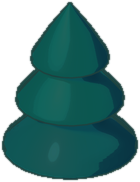
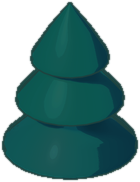
树冠亮部压到参考图的比例：之前三轮扫不动是参考裁剪里混了草地
GROVE_CAP 的拐点 0.40 -> 0.390，GROVE_FLAT 的暗边 d0 0.055 -> 0.140。
亮档 oak 21.2% -> 13.9%、pine 16.0% -> 8.1%（参考图 11.9%），
暗部 oak 24.1% -> 28.5%（参考图 30.7%）。

D120/D121 的参考窗口放大 4 倍看过，里面有草和树缝，所以那两轮的
gamma 扫描"饱和"是靶子画错了。新靶 IMG_3728 778..882 x 1360..1490
逐像素确认过整块都是同一棵树冠。

只有 oak 和 pine 重新上色，图集仍是 359 帧 4096x3132。

Changed region(s): [[0.6, 0.6868, 0.8571, 0.8516], [0.4286, 0.4121, 0.6286, 0.467], [0.3143, 0.6593, 0.4286, 0.7143]]

diff --git a/tools/art3d/shade.py b/tools/art3d/shade.py
@@ -105,7 +105,23 @@ LINE = {
 # NOT applied to the rest of the toned props: cactus sits at 0.580 of p88 on sand at 0.84 and
 # snowpine at 0.502 on snow at 0.90-0.95, so this knee would cut their bodies by a tenth and a
 # seventh, not just their tails. The litter is out too -- the reference's forest carries none.
-GROVE_CAP = {'t': 0.40, 'c': 0.25}
+# D129: AND THE LIT SHARE IS THE KNEE, NOT THE CEILING. The reference numbers D120/D121 were swept
+# against came from a window that is NOT all crown -- read back at 4x it holds grass and the gap
+# between two trees, which is why those sweeps "saturated" without closing anything. Measured again
+# on a window verified by eye to be one crown and nothing else (IMG_3728, 778..882 x 1360..1490),
+# the reference's crown splits like this, against ours before this change:
+#               <0.28   0.28-0.32   0.32-0.36   0.36-0.40   >0.40
+#   reference   30.7%     11.8%       44.5%       11.9%      1.2%
+#   oak         24.1%      4.4%       49.3%       21.2%      1.0%
+#   pine        19.3%      4.8%       59.7%       16.0%      0.2%
+# So the body's level is right and has been since D93; what is wrong is HOW MUCH of the crown is
+# lit -- ours is nearly twice the reference's -- and that is this knee, not GROVE_SPLIT's gamma.
+# Swept (lit share, oak / pine): 0.40 -> 21.2/16.0, 0.395 -> 21.5/16.1, 0.390 -> 13.9/8.1,
+# 0.385 -> 9.0/3.3, 0.38 -> 6.9/1.5, 0.36 -> 1.0/0.3. 0.390 averages 11.0 against its 11.9.
+# GROVE_SPLIT's 'hi' was swept too and is NOT the lever: it is the ceiling every lit pixel lands
+# on, so raising it past 0.405 wipes the lit tier out entirely (oak 2.8%) instead of shrinking it,
+# and GROVE_BAND's fourth level was dropped and put back -- it changes the shares by under 1 point.
+GROVE_CAP = {'t': 0.390, 'c': 0.25}
 # AND THEN IT IS PAINTED IN STEPS, NOT IN A GRADIENT (D117). A render shades a sphere smoothly and
 # the reference paints a canopy in flat tiers, and that -- more than hue, value or outline -- is why
 # a grove of ours reads as balloons and one of theirs as foliage. Counted rather than eyeballed, by
@@ -179,7 +195,13 @@ GROVE_COOL = {'rgb': (8, 51, 66), 'v0': 0.330, 'v1': 0.255, 'k': 0.90}
 # the inside of it stays flat. So a dark pixel is lifted toward the middle tier by how deep inside
 # the silhouette it sits -- nothing within d0 of the edge is touched (that is the reference's own
 # dark rim, and the band cool() acts on), everything past d1 is lifted in full.
-GROVE_FLAT = {'v': 0.345, 'd0': 0.055, 'd1': 0.150, 'k': 0.80}
+# D129 widened the rim: d0 is how far in the shade is left alone, as a fraction of the piece's
+# height, and at 0.055 it left a band about 2.4 logical px thick on the board where the reference's
+# is about twice that. Swept against the share of the body below 0.30 (reference 36.6%): d0 0.055
+# -> 26.5% (oak), 0.075 -> 28.1, 0.095 -> 29.3, 0.115 -> 30.2, 0.140 -> 31.0. d1 keeps the same
+# 0.095 ramp above it. Past 0.140 the lift has nothing left to give -- flat() can only RESTORE dark
+# the render already made, and the render's dark is the creases between lobes, not a shadow side.
+GROVE_FLAT = {'v': 0.345, 'd0': 0.140, 'd1': 0.235, 'k': 0.80}
 # D121: AND THE LIT PATCH IS A MINORITY OF THE CROWN, NOT MOST OF IT. Same interior window as
 # D120, the three shares the reference's crown splits into against ours:
 #              below 0.32   0.32-0.37   above 0.37   median

diff --git a/DECISIONS.md b/DECISIONS.md
@@ -4241,3 +4241,77 @@ alpha 定在 0.20 是夹出来的：用同一张固定掩膜量，0.24 → 0.098
    视图改不了。
 4. **D127 留下的两条照旧：** 林子比参考图稀；树冠轮廓比参考图糊（`props.py` 的事）。
 5. **这不是和参考图一样了。** 这一轮动的只是角色之间的大小关系，角色本身长什么样没变。
+
+## D129 树冠亮部太大、暗边太窄：之前三轮扫参数扫不动，是因为参考值取错了裁剪
+
+**先说这一轮最重要的事：D120 和 D121 的参考数字是脏的。** 那两条都是拿
+`IMG_3717 250..420 x 790..960` 当"树冠内部"去量的。这一轮把这块裁剪放大 4 倍看了一眼，里面有草
+地，也有两棵树之间的缝。它量出来的"参考图树冠"有 35.3% 亮过 0.405、p90 到 0.490——那是草，不是
+树。所以 D121 扫 gamma 时"增益饱和、再扫也不动"不是模型的极限，是靶子画在了墙外面。
+
+重新取靶：`IMG_3728 778..882 x 1360..1490`，先放大 4 倍逐像素看过，确认整块都是同一棵树的树冠，
+没有草、没有缝、没有邻居。
+
+|  | <0.28 | 0.28–0.32 | 0.32–0.36 | 0.36–0.40 | >0.40 |
+| --- | --- | --- | --- | --- | --- |
+| 参考图树冠 | 30.7% | 11.8% | 44.5% | 11.9% | 1.2% |
+| 我们 oak（改前） | 24.1% | 4.4% | 49.3% | **21.2%** | 1.0% |
+| 我们 pine（改前） | 19.3% | 4.8% | 59.7% | **16.0%** | 0.2% |
+
+**身子的色阶本来就是对的**（中位数都在 0.341，参考图 0.333，D93 以后一直没错）。错的是两件事：
+**被照亮的那部分差不多是参考图的两倍**，**暗部比参考图少六个百分点**。
+
+**改法：两个常数，各自扫出来的。**
+
+1. `GROVE_CAP['t']` 0.40 → **0.390**。这个拐点以上的值会被压扁，所以它决定有多少像素留在亮档。
+   扫（亮档占比，oak / pine）：0.40 → 21.2/16.0，0.395 → 21.5/16.1，**0.390 → 13.9/8.1**，
+   0.385 → 9.0/3.3，0.38 → 6.9/1.5，0.36 → 1.0/0.3。0.390 两棵平均 11.0，参考图 11.9。
+2. `GROVE_FLAT['d0']` 0.055 → **0.140**（`d1` 跟着从 0.150 到 0.235，保持同样 0.095 的过渡）。
+   d0 是"离轮廓多远以内的暗不去提亮"，也就是暗边的宽度。扫（身子里低于 0.30 的占比，参考图
+   36.6%）：0.055 → 26.5%，0.075 → 28.1，0.095 → 29.3，0.115 → 30.2，**0.140 → 31.0**。
+
+改完：
+
+|  | <0.28 | 0.28–0.32 | 0.32–0.36 | 0.36–0.40 | >0.40 |
+| --- | --- | --- | --- | --- | --- |
+| 参考图树冠 | 30.7% | 11.8% | 44.5% | 11.9% | 1.2% |
+| oak | 28.5% | 4.4% | 52.6% | 13.9% | 0.6% |
+| pine | 23.8% | 5.0% | 63.0% | 8.1% | 0.1% |
+
+不用重开 Blender：`art/pilot3d/render` 下的原始渲染和几何通道都在，
+`python tools/art3d/sprite.py art/pilot3d/render art --group props` 直接重新上色，然后
+`git checkout --` 那七个 decor3d 的碎件（sprite.py 顶上那段警告），再 `tools/art/pack.py` 重打
+图集。只有 oak.png 和 pine.png 变了，图集还是 359 帧 4096x3132。
+
+`npm run check` 全绿：76 个文件 / 605 个测试。
+
+### 这一轮被实测否掉的三个猜法，记下来别再试
+
+1. **"我们的格子太重、像方格纸。"** 假的。我们干净草地（600,1250,840,1450）主体 V 0.445、p02
+   0.302、p98 0.471、跨度 0.169；参考图干净草地（IMG_3717 330,1900,690,2140）0.445 / 0.322 /
+   0.502 / 0.180。基本一模一样，格子没问题。
+2. **"参考图的暗是一大块连成片的阴影，我们的是一条条缝。"** 这个结论来自又一块脏裁剪——连通域
+   跨过了树，把树周围地面的暗一起算进去了，所以才会量出"占外接框 49%、平均厚 5.24 逻辑 px"。
+   放大看过之后：那块暗一半在树外面。
+3. **"把 `GROVE_FLAT` 的暗边一直加宽就能补上。"** 加宽确实有用，但很快到顶：d0 从 0.055 拉到
+   0.140（2.5 倍），暗部平均厚度只从 2.43 走到 2.97 逻辑 px。原因是 `flat()` 只会"不去提亮"，
+   它变不出渲染里本来没有的暗。渲染的暗在瓣与瓣的夹缝里，不在"背光的那一侧"。
+   `GROVE_SPLIT['hi']` 也扫了，它不是杠杆：它是所有亮像素最后落到的那个天花板，抬到 0.405 以上
+   不是缩小亮档而是把亮档整个抹掉（oak 2.8%）。`GROVE_BAND` 的第四档 0.424 拿掉又放回去了，
+   对各档占比的影响不到 1 个百分点——参考图高于 0.40 的只有 1.2%，这一档本来就几乎没在用。
+
+### 还差多少，说清楚
+
+1. **亮档 oak 13.9% / pine 8.1%，参考图 11.9%。** 两棵一个常数，oak 偏亮、pine 偏暗，夹着目标。
+   再往下调 0.385 的话 pine 掉到 3.3%，针叶树会整个糊成一块，所以停在 0.390。
+2. **暗部 28.5% / 23.8%，参考图 30.7%。** 还差 2 到 7 个百分点，而且上面第 3 条已经说了，这段
+   差距不是调参数能补的：参考图那棵树是"一个亮顶 + 一大片平的中间调 + 硬边的深色弧线"，我们是
+   "每个球自己的明暗交界"。要补得靠改渲染或者直接画，这一轮没动。
+3. **0.28–0.32 这一档我们 4.4%，参考图 11.8%。** 这是两档之间的过渡像素。我们的 `band()` 把档
+   位拉得比参考图更干净，所以中间带反而比它窄。这条和第 1 条方向相反，没有一起调。
+4. **放大看，形状的差距还在。** 参考图的树冠是平涂块面加硬边弧线，轮廓是扇贝形的；我们的还是
+   一个个球，每个球带自己的渐变。这是 `props.py` 的几何和渲染的事，D120 里已经试过"把七个大瓣
+   拆成二十个小瓣"并且实测更差（像一串葡萄），所以没有再往那个方向走。
+5. **这一轮只碰了 oak 和 pine。** rocks 走的是 `ROCK_CAP` / `ROCK_BAND`，没变；它现在仍然是一个
+   偏亮、偏冷蓝、表面光滑的块，下一轮再看。
+6. **这不是和参考图一样了。** 变的是树冠亮部和暗边的占比，树冠本身的画法没变。
